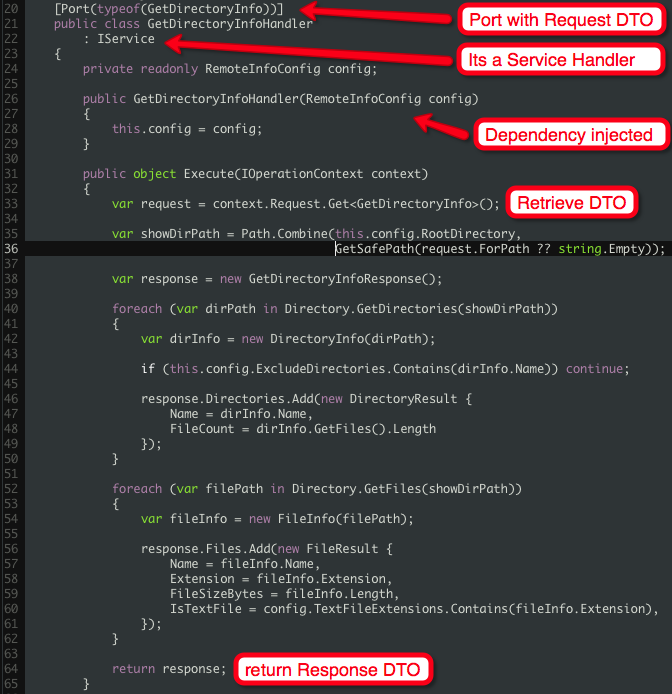
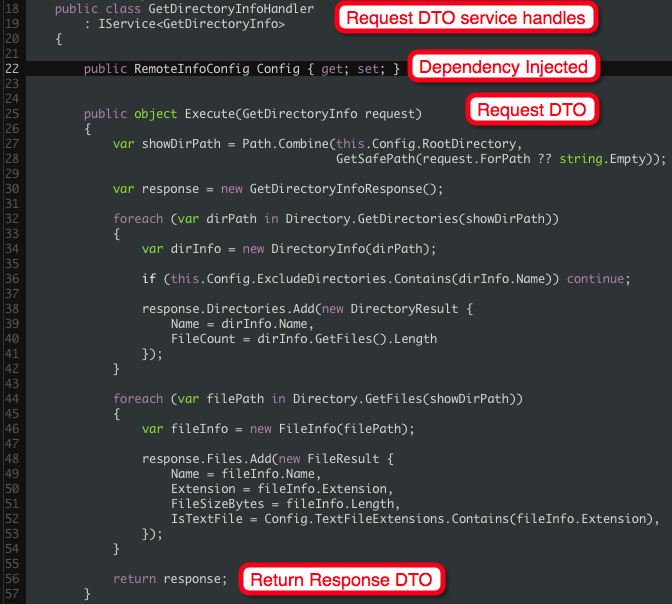
updated website with latest code

diff --git a/MonoTouch.Examples/html/remote-info/default.htm b/MonoTouch.Examples/html/remote-info/default.htm
@@ -8,26 +8,31 @@
 </head>
 <body>
 	<a id="title-img" href="default.htm"><img src="../img/MonoTouch-ServiceStack.png" alt="MonoTouch ServiceStack"></a>
-	<h2>RemoteInfo Example Project :: Calling web services with MonoTouch</h2>
+	<h2>Calling Web Services from MonoTouch</h2>
 	
 	<h3 class="step">Step 1 - Getting Started</h3>
 
 	<div class="section">
 	<p>
-		RemoteInfo is an example project that exposes information about a server's details 
-		(e.g. directory / file structure) via XML and JSON Web Services.
-		It shows how to create Web Services with <a href="http://www.servicestack.net">Service Stack</a> 
-		and how to call them from .NET clients like a MonoTouch application.
+		In this tutorial I will show how easy it is to create Web Services with <a href="http://www.servicestack.net">Service Stack</a> 
+		and call them from a <a href="http://www.monotouch.net">MonoTouch</a> application.
 	</p>
 	<p>
-		All source code in this example is be available at:
+		You can download the full source code for this tutorial at:
+		<a href="http://servicestack.googlecode.com/files/RemoteInfo.zip">http://servicestack.googlecode.com/files/RemoteInfo.zip</a>.
+		<br />
+		Alternatively, you can browse all the source code online at:
 		<a href="http://code.google.com/p/servicestack/source/browse/#svn/trunk/MonoTouch.Examples/RemoteInfo">
-			http://code.google.com/p/servicestack/
-		</a>
+			http://code.google.com/p/servicestack/source/browse/#svn/trunk/MonoTouch.Examples/RemoteInfo
+		</a>		
 	</p>
 
 	<p>
-		For simplicity we'll start with an existing Mono Develop solution that is already configured to host Web Services using Service Stack. 
+		For simplicity we'll start with an existing Mono Develop solution which has already been configured 
+		to host Web Services using Service Stack. 
+		<br />
+		<b>RemoteInfo</b> is an example project that exposes information about a servers' 
+		file / directory structure via XML and JSON Web Services:		
 	</p>
 
 	<dl id="sln-info">
@@ -68,7 +73,7 @@
 		<dd>
 			<br />
 			The configuration for the host projects are ultimately the same except that one is configured to be run in a 
-			Console Application while the other allows it to hosted within a Web Server configured to run ASP.NET 
+			Console Application while the other allows it to be hosted within a Web Server configured to run ASP.NET 
 			applications which include: 
 			<ul>
 				<li>IIS 6.0/7.0</li>
@@ -84,20 +89,19 @@
 		</dd>
 	</dl>
 
-	<img src="../img/RemoteInfo-sln.png" style="float:left;">
+	<img src="../img/remote-info-sln.png" style="float:left;">
 	
 	<hr />
 	
 	<h4>Configuring ServiceStack - Modifying AppHost.cs</h4>
 	<p>
 		The configuration of a ServiceStack Web Service Host is held in the <b class="cs">AppHost.cs</b> class.
-		The contents of RemoteInfo's AppHost.cs is included below. Most ServiceStack AppHost.cs files are essentially
-		the same so you can happily Copy and Paste the file to use as a template in your own project.
-		<br />
-		In most cases the only parts you will need to change are:
+		The contents of RemoteInfo's AppHost.cs is included below. <br />
+		Configuring ServiceStack as seen in this example is pretty easy, generally the only things you need to do is:
 		<ul>
-			<li>(Line 48) - Where you can use ServiceStack's IOC to register your own providers to be injected into your handlers</li>
-			<li>(Line 63) - Tell ServiceStack which assemblies your web service handlers (i.e. implementation) can be found</li>
+			<li>(Line 23) - Tell ServiceStack which assemblies your web service handlers (i.e. implementation) can be found</li>
+			<li>(Line 29) - Use ServiceStack's built-in <a href="http://funq.codeplex.com/">Funq</a> IOC Container to register
+				dependencies you want injected into your services</li>
 		</ul>
 		<br />
 	</p> 
@@ -109,7 +113,8 @@
 <code>
 	protected void Application_Start(object sender, EventArgs e)
 	{
-		AppHost.Init();
+		var appHost = new AppHost();
+		appHost.Init();
 	}
 </code>
 		to your <b class="cs">Global.asax.cs</b>.
@@ -145,7 +150,7 @@
 	
 	<div class="page-nav">
 		<div class="next">
-			<a href="step2.htm">Step 2 - Calling the GetDirectoryInfo Web Service</a>
+			<a href="step2.htm">Step 2 - Calling the GetDirectoryInfo Web Service &gt;</a>
 		</div>
 	</div>
 	

diff --git a/MonoTouch.Examples/html/remote-info/step4.htm b/MonoTouch.Examples/html/remote-info/step4.htm
@@ -43,7 +43,8 @@
 	</p>
 	
 	<p class="clear">
-		That's actually all there is to it, it is now discoverable on the Web Services splash page:
+		That's actually all there is to creating a new Web Service, just by adding the 2 files above it's now 
+		discoverable on the Web Services splash page:
 	</p>
 
 	<img src="../img/ws-splash2.png" />
@@ -66,23 +67,30 @@
 	
 	<p>
 		We'll now need to create a new View Controller to view this information. Do this by 
+
 		<ol>
 			<li>
-				Double clicking on <b class="xib">MainWindow.xib</b> to load Interface Builder.<br />
+				Create a new 'View Interface Definition with Controller' called <b class="cs">ViewTextFileController</b> 
+				<br />
+				<img src="../img/ViewTextFileController-new.png" alt="create new controller" />
 			</li>
 			<li>
-				Drag a <b>ViewController</b> into the <b class="xib">MainWindow.xib</b> folder to create a new instance of a View Controller.
+				Double-click <b class="xib">ViewTextFileController.xib</b> to load Interface Builder.<br />
 			</li>
 			<li>
-				Drag a <b>View</b> into body of the ViewController and a <b>TextView</b> to put on top of the view. 
-			</li>
-			<li>
-				Now in the <b>Inspector</b>, add the text <b>ViewTextFileController</b> in the class field of the new View Controller.
+				Drag a <b>UITextView</b> on to the <b>View</b> to add it
+				<br />
+				<img src="../img/ib-UITextView.png" alt="Add UITextView" />
 			</li>
 		</ol>
 		<br />
 		
-		If you got this far you should have a new View Controller that looks like this:
+		<p>
+			Now in the <b>Inspector</b>, check to make sure you have the text <b>ViewTextFileController</b> in the 
+			class field of the new View Controller.
+			<br />
+			If you got this far you should have a new View Controller that looks like this:
+		</p>
 	</p>
 	
 	<img src="../img/ib-viewtextfilecontroller.png" />
@@ -130,12 +138,41 @@
 		Once we receive the response we load a new instance of the <b>ViewTextFileController</b> with the name and contents of the Text file.
 	</p>
 	
+	<p>
+		Ok that's all we need to do, time for another test run. Hit <b>Debug</b> and navigate to a Text file that's on the server 
+		to test it out.
+		With this we should now be able to see the source code of the <b>GetTextFileHandler.cs</b> Web Service we've just created: 
+	</p>
+
+	<img src="../img/s4-screenshot-01.png" class="left" />
+	<img src="../img/s4-screenshot-02.png" class="left" />
+	
+	<p class="clear">&nbsp;</p>
+	
+	<h4>Last words</h4>
+	<p>
+		Hopefully this tutorial will help get you started in accessing your own Web Services in MonoTouch. 
+		<br />
+		With just two C# source files to create a new Web Service and requiring only two lines of code to call it, 
+		calling <a href="http://www.servicestack.net">Service Stack Web Services</a> in <a href="http://www.monotouch.net">MonoTouch</a>
+		has never been easier! 
+	</p>
+	<p>		
+		The full source code is available at: <a href="http://servicestack.googlecode.com/files/RemoteInfo.zip">http://servicestack.googlecode.com/files/RemoteInfo.zip</a>.
+	</p>
+	<p>
+		If you run into any problems with <a href="http://www.servicestack.net">Service Stack</a> feel free to
+		drop me an email at <b>demis.bellot <em>at</em> gmail.com</b>.
+		<br />
+		For other useful resources, check out the <a href="http://forums.monotouch.net/">MonoTouch forums</a>
+		or post an email to the MonoTouch mailing list at: <b>monotouch <em>at</em> lists.ximian.com</b>
+	</p>
 
 	</div>
 
 	<div class="page-nav">
 		<div class="previous">
-			<a href="step2.htm">Step 3 - Calling the Web Service from MonoTouch</a>
+			<a href="step2.htm">&lt; Step 3 - Calling the Web Service from MonoTouch</a>
 		</div>
 	</div>
 	

diff --git a/MonoTouch.Examples/html/remote-info/step2.htm b/MonoTouch.Examples/html/remote-info/step2.htm
@@ -65,34 +65,32 @@
 	<img src="../img/ws-handler.png" class="left-wtext" />
 	<p>
 		So there a couple of things going here. The first is to tell ServiceStack which Web Service we are implementing.
-		This is done with the specifying the type of Request DTO in the <b class="attr">Port</b> Attribute.
-	</p>
-	<p>
-		The next step is to tell ServiceStack what type of Web Service implementation this is by inheriting from the service 
-		implementation interface of your choice. Nearly all times this will be <b class="interface">IService</b> as you'll
-		want to deal with strongly-typed DTO's. If you prefer to deal with the XML Stream directly than you can inherit from
-		IXmlService instead.
+		This is done by specifying the type of Request DTO in the <b class="cs">IService&lt;&gt;</b> interface.
 	</p>
 	<p>
 		The constructor for your handler should either be empty or containing members of providers you've registered in your 
-		<b class="cs">AppHost.cs</b> file.
+		<b class="cs">AppHost.cs</b> file. Public properties are also auto-wired to receive configured dependencies as well.
 	</p>
 	<p>
-		The <b class="interface">IService</b> has one method which is <code>object Execute(IOperationContext)</code>
-		The IOperationContext that gets passed in is also defined in the <b class="cs">AppHost.cs</b> and will contain
-		the Request DTO and ApplicationContext singleton at a minimum. You can retrieve anything from the RequestContext
-		including the Request DTO for this call using the method <code>context.Request.Get&lt;T&gt;();</code>
-	</p>
-	<p>
-		The last thing on the TODO list is to return the an instance of the Web Services Response DTO, which in this case is
+		The <b class="interface">IService</b> has one method which is <code>object Execute(TRequest)</code>
+		Quite simply ServiceStack calls your service passing in the request as a strongly-typed RequestDto.
+		To complete the request you just need to return the Web Services Response DTO, which in this case is
 		an instance of <b class="cs">GetDirectoryInfoResponse</b>.
 	</p>
 	
 	<p class="clear">
 		That's all there is to it! If you start XSP again you can now call this Web Service via REST using the following url:
 		<ul>
-			<li>(XML): http://localhost:8080/Public/Xml/SyncReply/GetDirectoryInfo</li>
-			<li>(JSON): http://localhost:8080/Public/Json/SyncReply/GetDirectoryInfo</li>
+			<li>(XML): 
+				<a href="http://localhost:8080/Public/Xml/SyncReply/GetDirectoryInfo">
+					http://localhost:8080/Public/Xml/SyncReply/GetDirectoryInfo
+				</a>
+			</li>
+			<li>(JSON): 
+				<a href="http://localhost:8080/Public/Json/SyncReply/GetDirectoryInfo">
+					http://localhost:8080/Public/Json/SyncReply/GetDirectoryInfo
+				</a>
+			</li>
 		</ul>
 	</p>
 	<p>
@@ -136,10 +134,10 @@
 
 	<div class="page-nav">
 		<div class="previous">
-			<a href="default.htm">Step 1 - Getting Started</a>
+			<a href="default.htm">&lt; Step 1 - Getting Started</a>
 		</div>
 		<div class="next">
-			<a href="step3.htm">Step 3 - Calling the Web Service from MonoTouch</a>
+			<a href="step3.htm">Step 3 - Calling the Web Service from MonoTouch &gt;</a>
 		</div>
 	</div>
 	

diff --git a/MonoTouch.Examples/html/remote-info/step3.htm b/MonoTouch.Examples/html/remote-info/step3.htm
@@ -112,10 +112,10 @@
 
 	<div class="page-nav">
 		<div class="previous">
-			<a href="step2.htm">Step 2 - Calling the GetDirectoryInfo Web Service</a>
+			<a href="step2.htm">&lt; Step 2 - Calling the GetDirectoryInfo Web Service</a>
 		</div>
 		<div class="next">
-			<a href="step4.htm">Step 4 - Creating a new Web Service</a>
+			<a href="step4.htm">Step 4 - Creating a new Web Service &gt;</a>
 		</div>
 	</div>
 	
